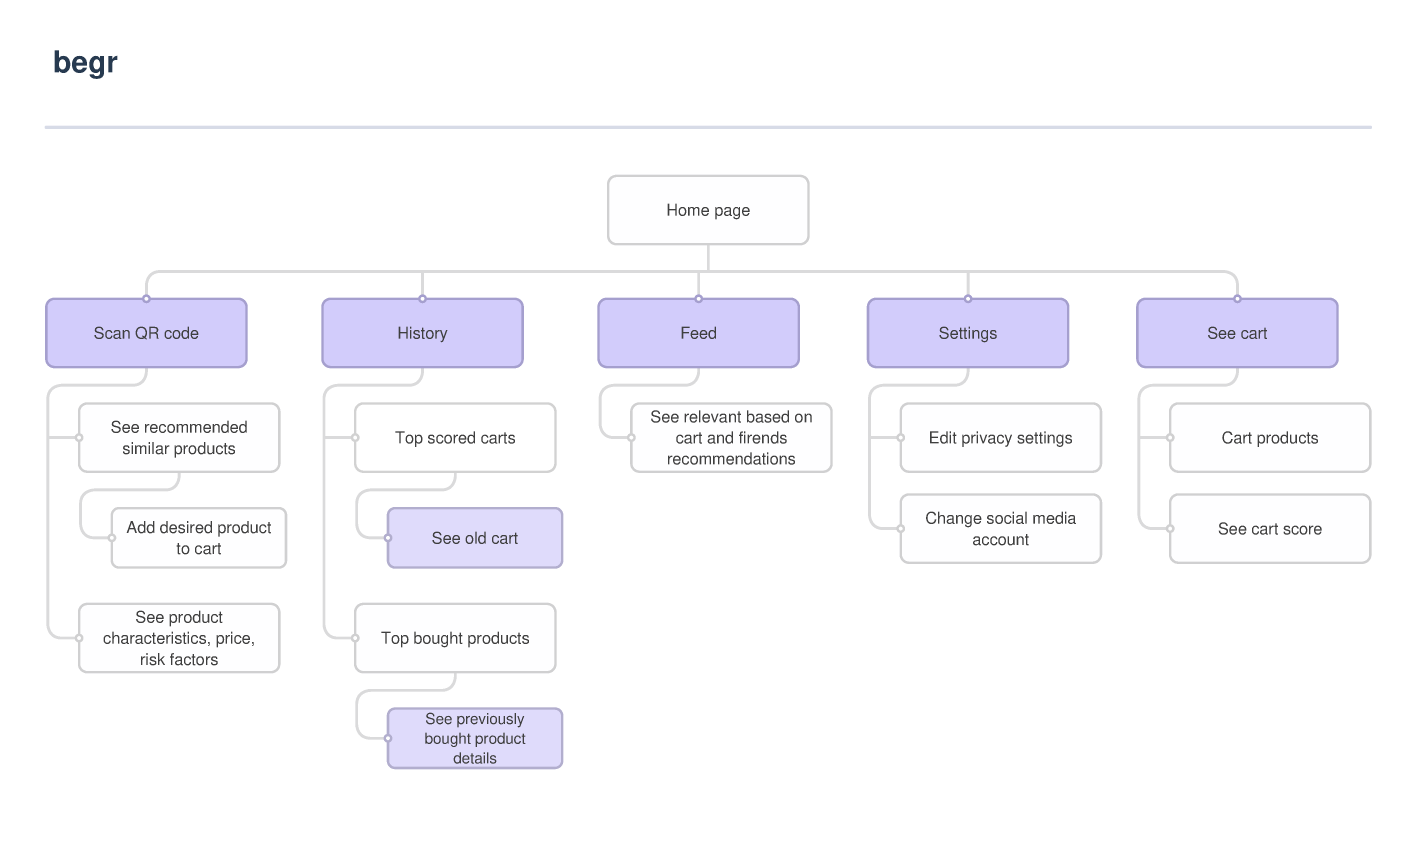
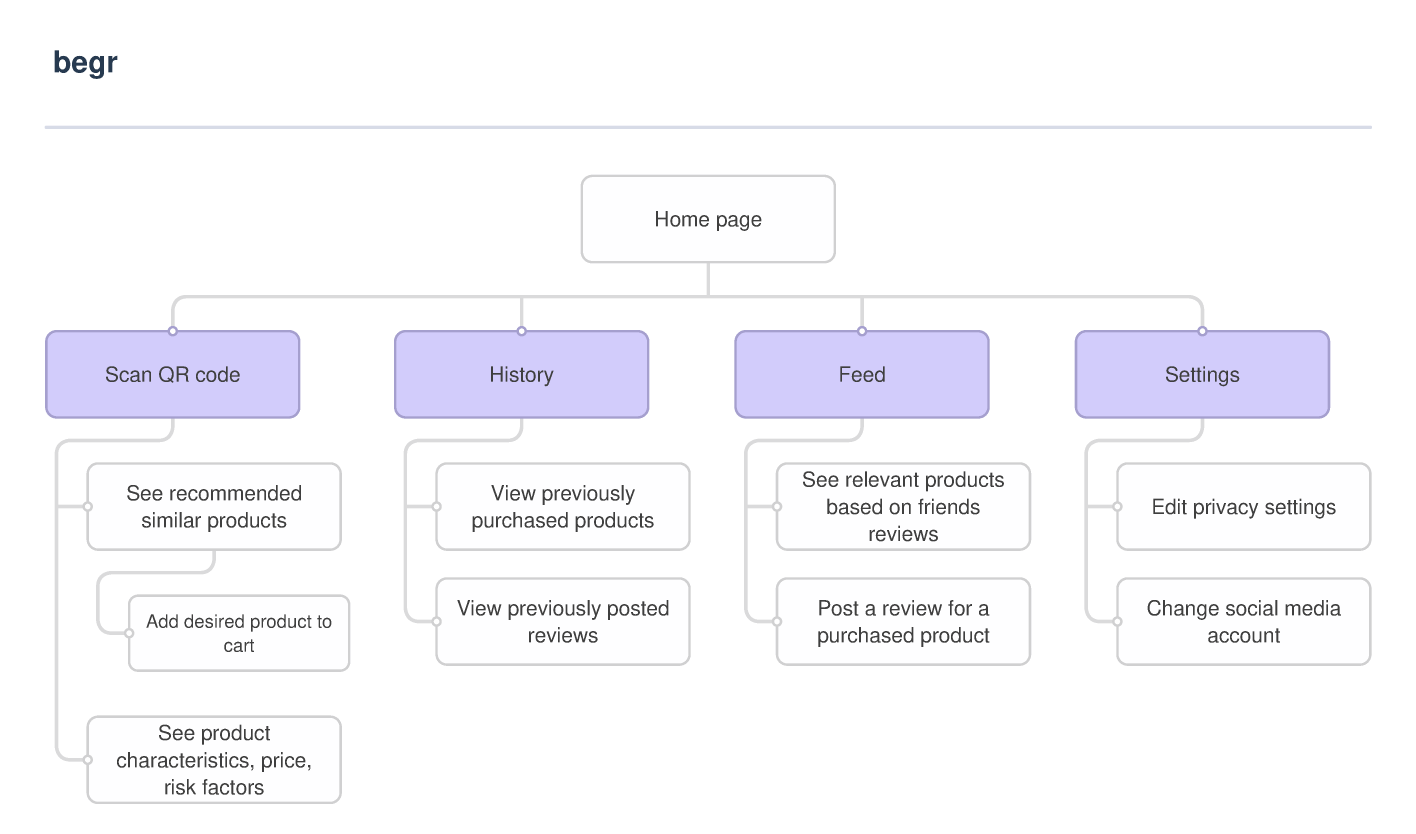
Update sitemap

Changed region(s): [[0.0306, 0.1871, 0.9808, 0.9664], [0.0306, 0.1247, 0.9808, 0.1559], [0.0306, 0.0624, 0.0919, 0.0935]]

diff --git a/scholarlyDoc.html b/scholarlyDoc.html
@@ -118,6 +118,9 @@
                                 <li>
                                     <a href="#history-page">3.1.4 History Page</a>
                                 </li>
+                                <li>
+                                    <a href="#settings-page">3.1.5 Setting Page</a>
+                                </li>
                             </ul>
                         </li>
                     </ul>
@@ -210,7 +213,9 @@
                 <p>
                     The begr (best goods recommender) app is intended to help users find the best goods to buy based on
                     quality, price and various restrictions. The app will be able to recommend goods based on the user's
-                    social graph.
+                    social graph. The user can scan the QR code of a product and the app will display the best
+                    alternatives for that product. The criteria taken into consideration are the price, the quality and
+                    the reviews of the user's friends.
                 </p>
             </section>
             <section id="product-references" typeof="sa:ReferenceList">
@@ -411,6 +416,12 @@
                     <li>
                         <a href="#scan-page">Scan Page</a>
                     </li>
+                    <li>
+                        <a href="#history-page">History Page</a>
+                    </li>
+                    <li>
+                        <a href="#settings-page">Settings Page</a>
+                    </li>
                 </ul>
                 <section id="home-page">
                     <h4>3.1.1 Home Page</h4>
@@ -578,7 +589,7 @@
                     <h3>4.1 Account Management</h3>
                     <p>
                         This <b>high priority</b> feature provides users the capability to
-                        login if they have an account or sign up to the web application by
+                        login if they have an account or sign up by
                         providing personal data. This is useful for the application to
                         be able to provide a personalized experience for each user, such as
                         displaying the products that the user has previously bought and
